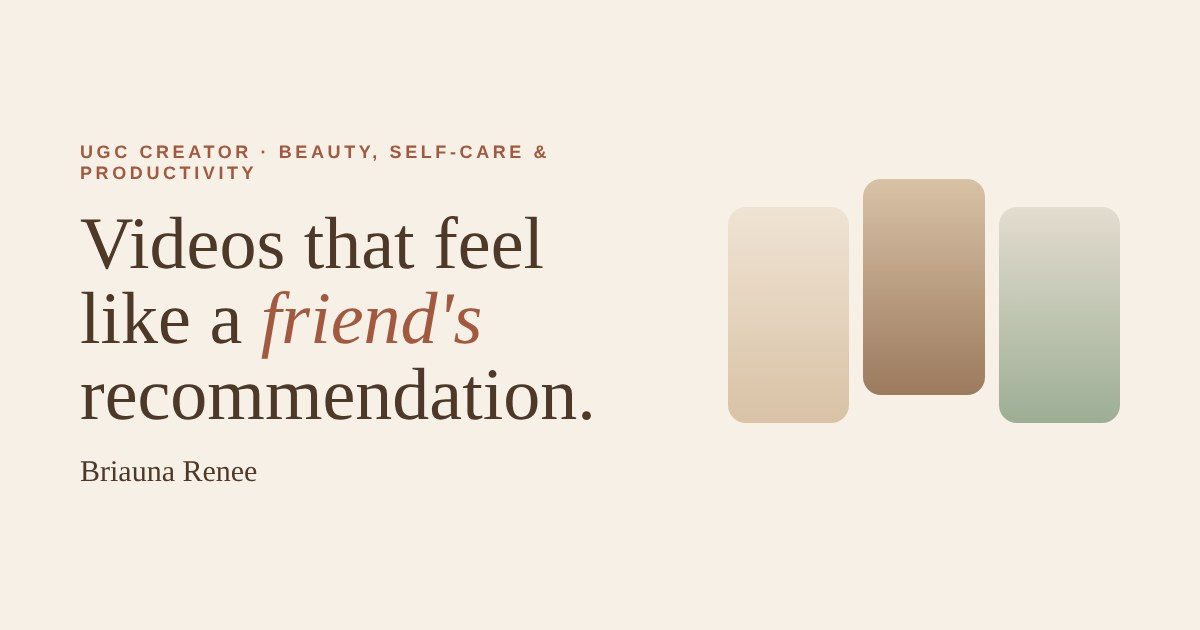
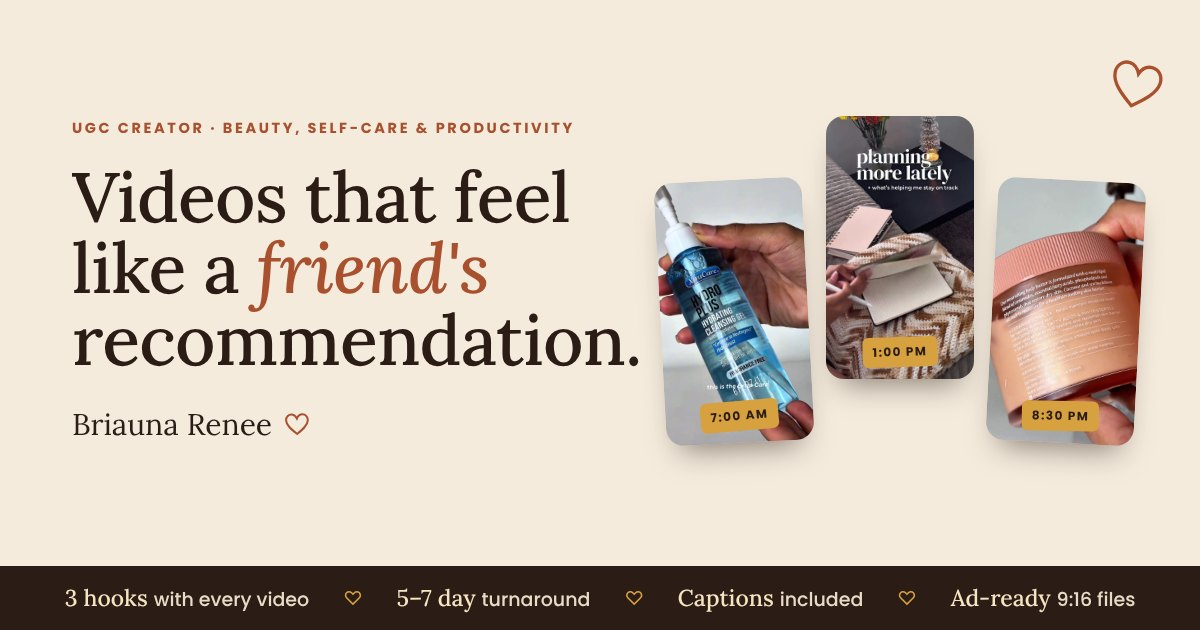
Add files via upload
updated thumbnail for when sending link

diff --git a/index.html b/index.html
@@ -10,8 +10,8 @@
 <!-- ✏ EDIT: if you move to a custom domain, replace https://briaunarenee.pages.dev in the 4 lines below -->
 <link rel="canonical" href="https://briaunarenee.pages.dev/">
 <meta property="og:url" content="https://briaunarenee.pages.dev/">
-<meta property="og:image" content="https://briaunarenee.pages.dev/assets/og-image.jpg">
-<meta name="twitter:image" content="https://briaunarenee.pages.dev/assets/og-image.jpg">
+<meta property="og:image" content="https://briaunarenee.pages.dev/assets/og-image.jpg?v=2">
+<meta name="twitter:image" content="https://briaunarenee.pages.dev/assets/og-image.jpg?v=2">
 
 <meta property="og:type" content="website">
 <meta property="og:site_name" content="Briauna Renee">
